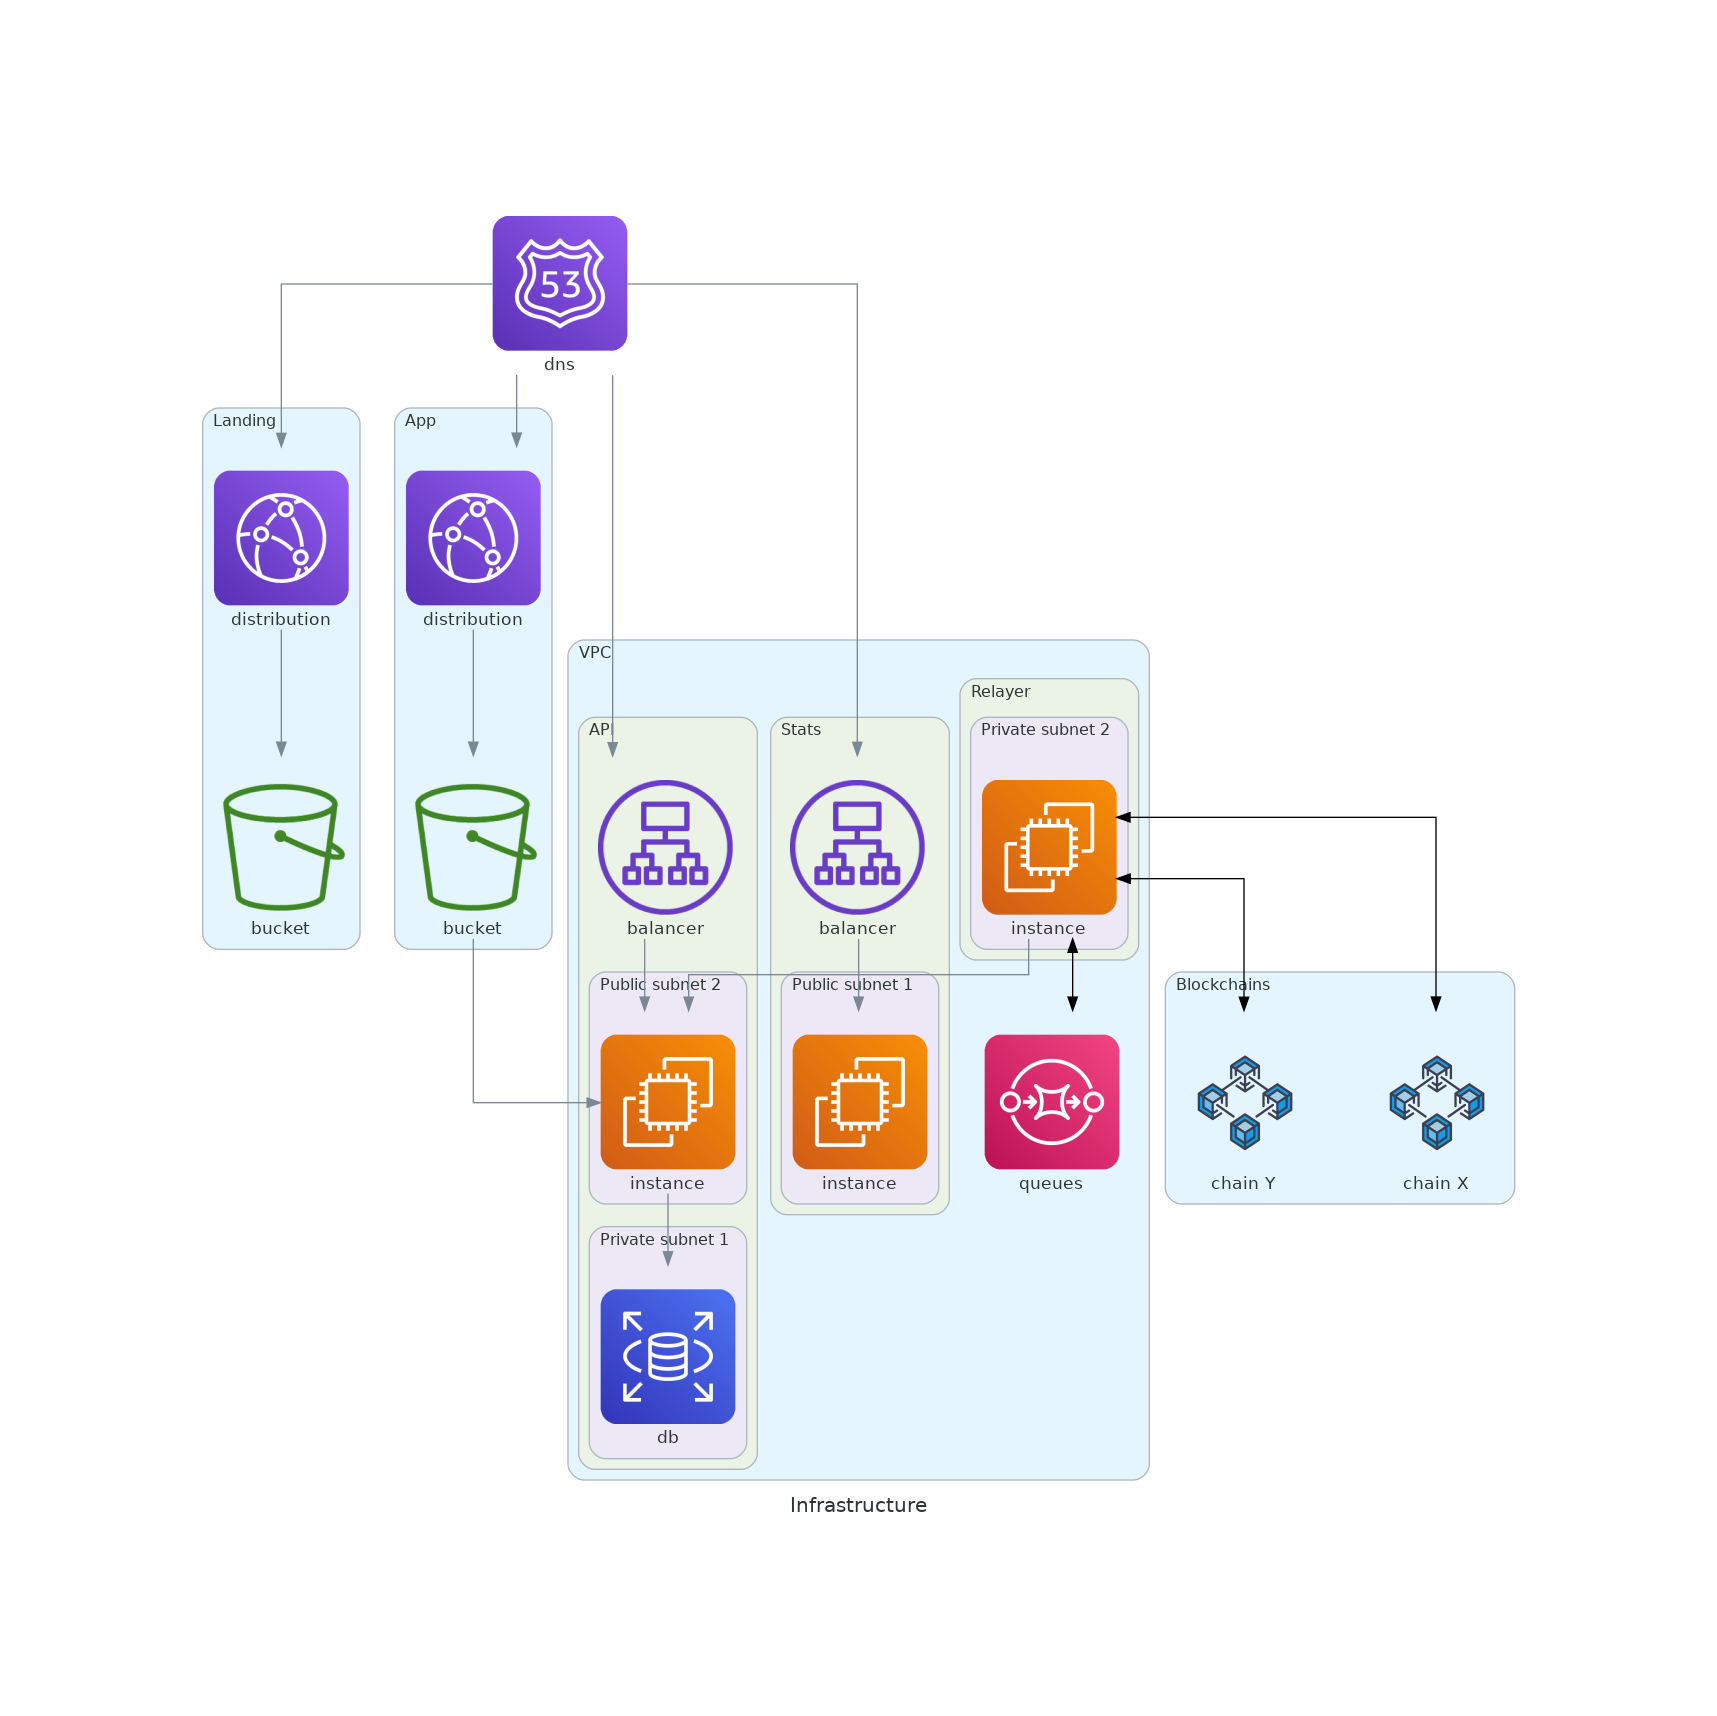
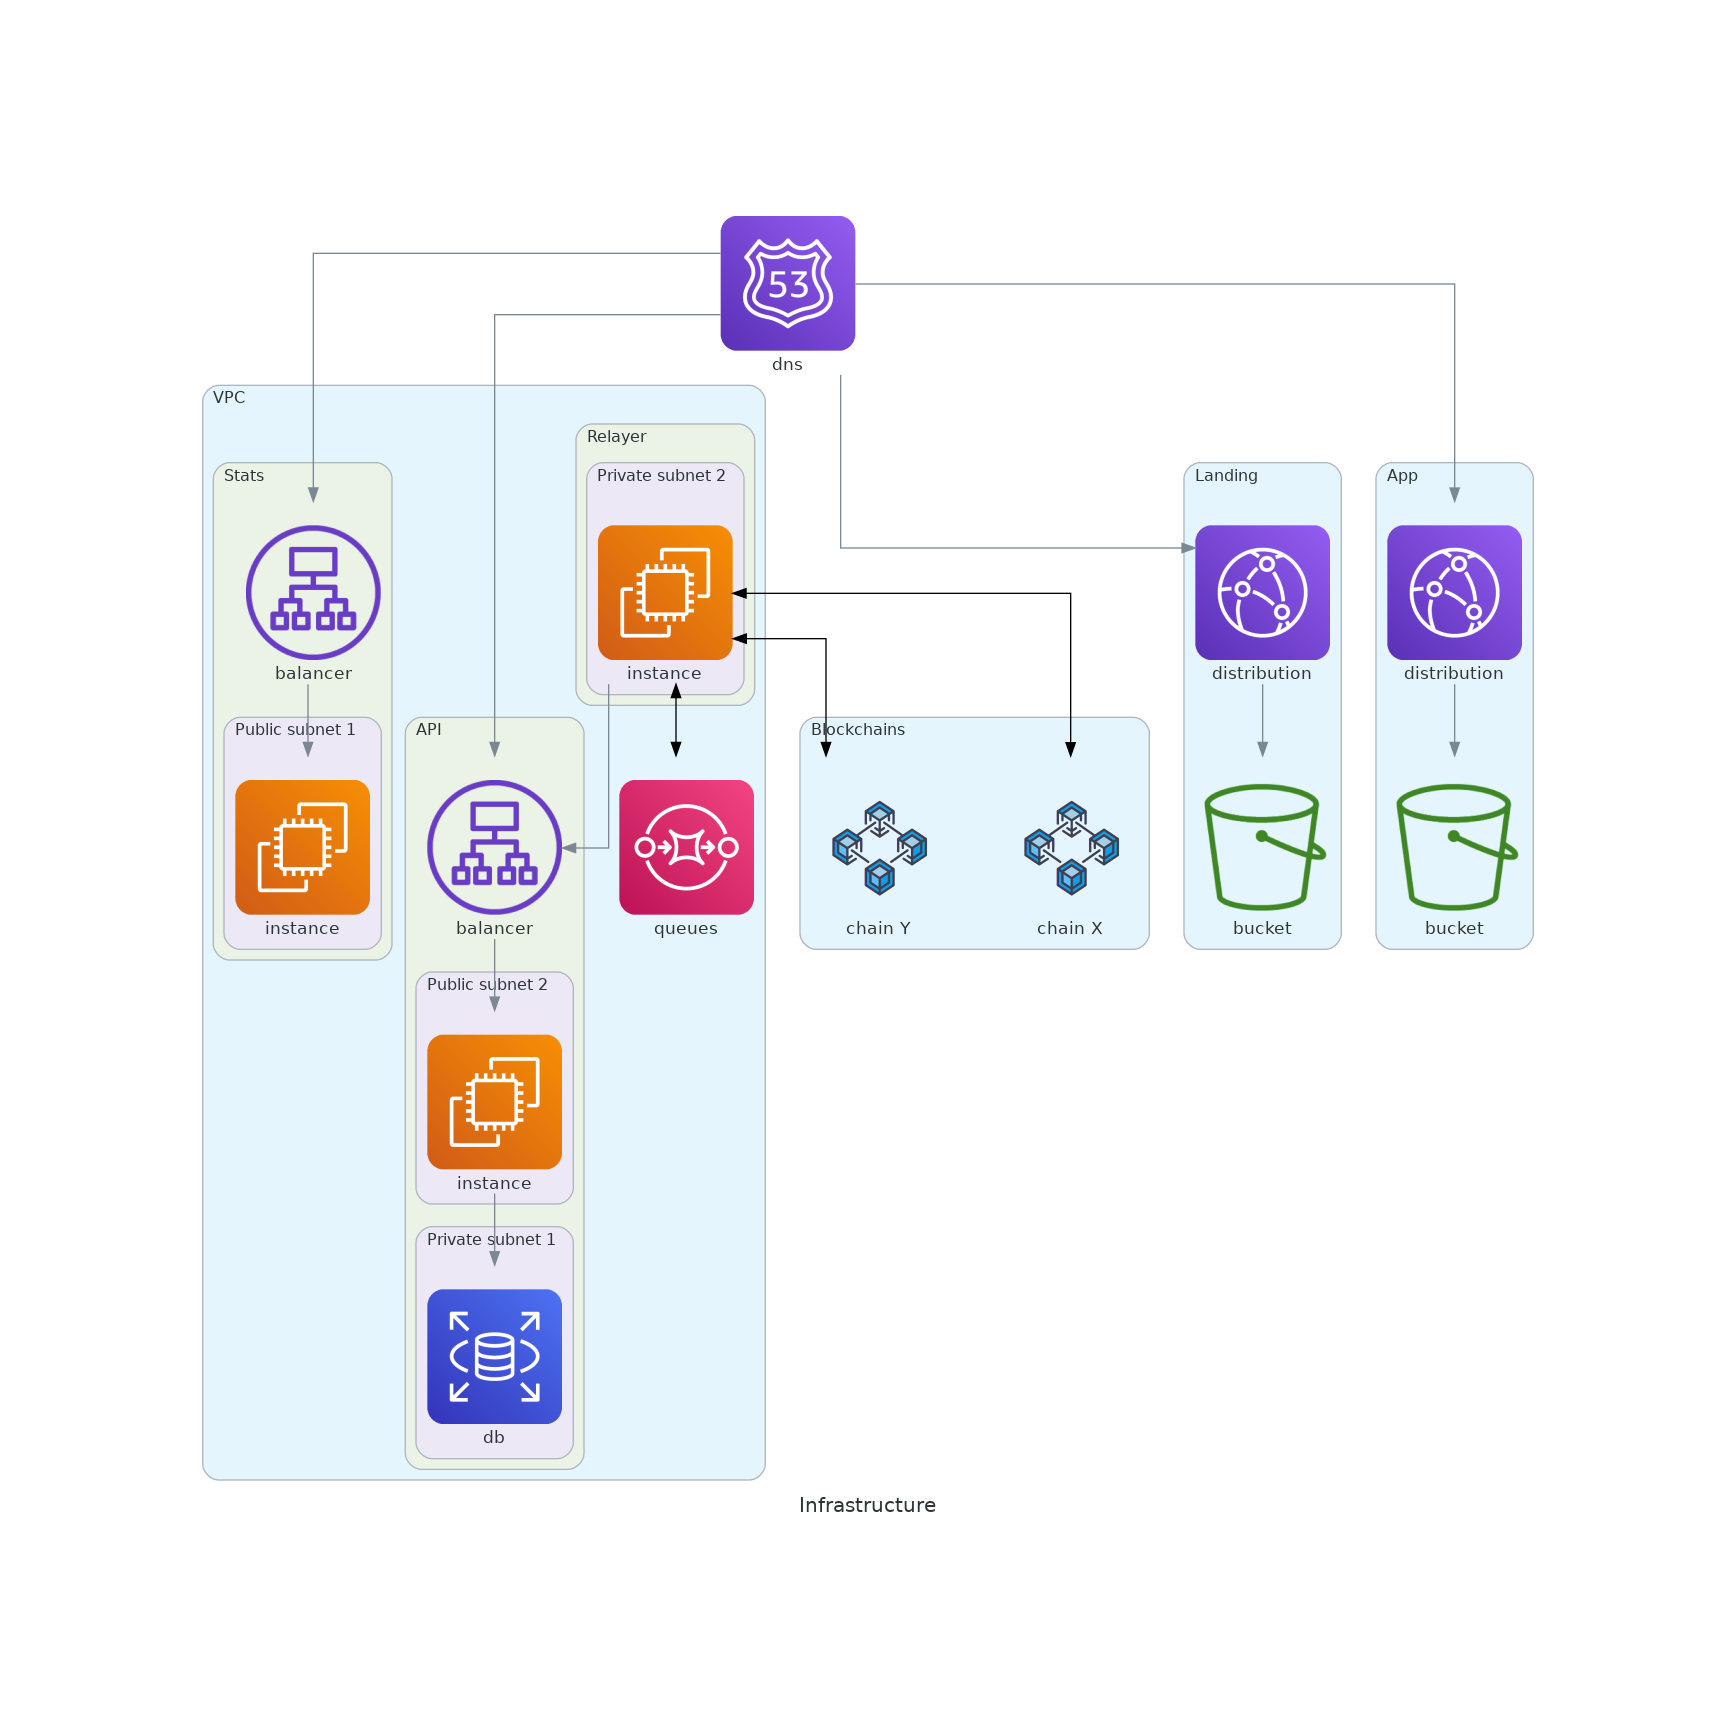
Update infrastructure diagram

Changed region(s): [[0.0926, 0.1235, 0.8952, 0.8648]]

diff --git a/diagrams/infrastructure.py b/diagrams/infrastructure.py
@@ -27,7 +27,7 @@ with Diagram("Infrastructure", show=False, direction="TB"):
             stats_alb = ALB("balancer")
             with Cluster('Public subnet 1'):
                 stats_instance = EC2('instance')
-            relayer_instance >> api_instance
+            relayer_instance >> api_alb
             stats_alb >> stats_instance
 
         queues = SQS('queues')
@@ -48,7 +48,6 @@ with Diagram("Infrastructure", show=False, direction="TB"):
         distribution_app = CloudFront('distribution')
         bucket_app = SimpleStorageServiceS3Bucket('bucket')
         distribution_app >> bucket_app
-        bucket_app >> api_instance
 
     dns >> [distribution_landing, distribution_app, api_alb, stats_alb]
 
